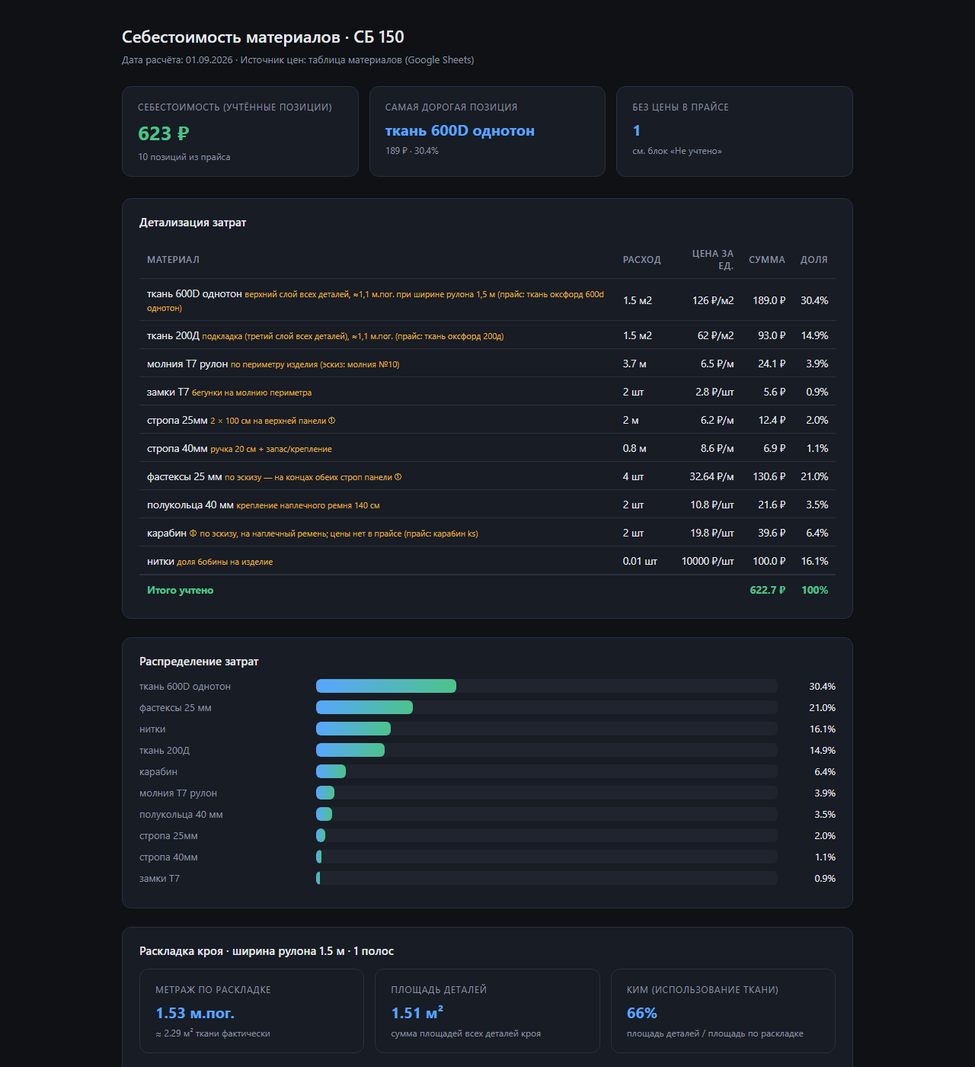
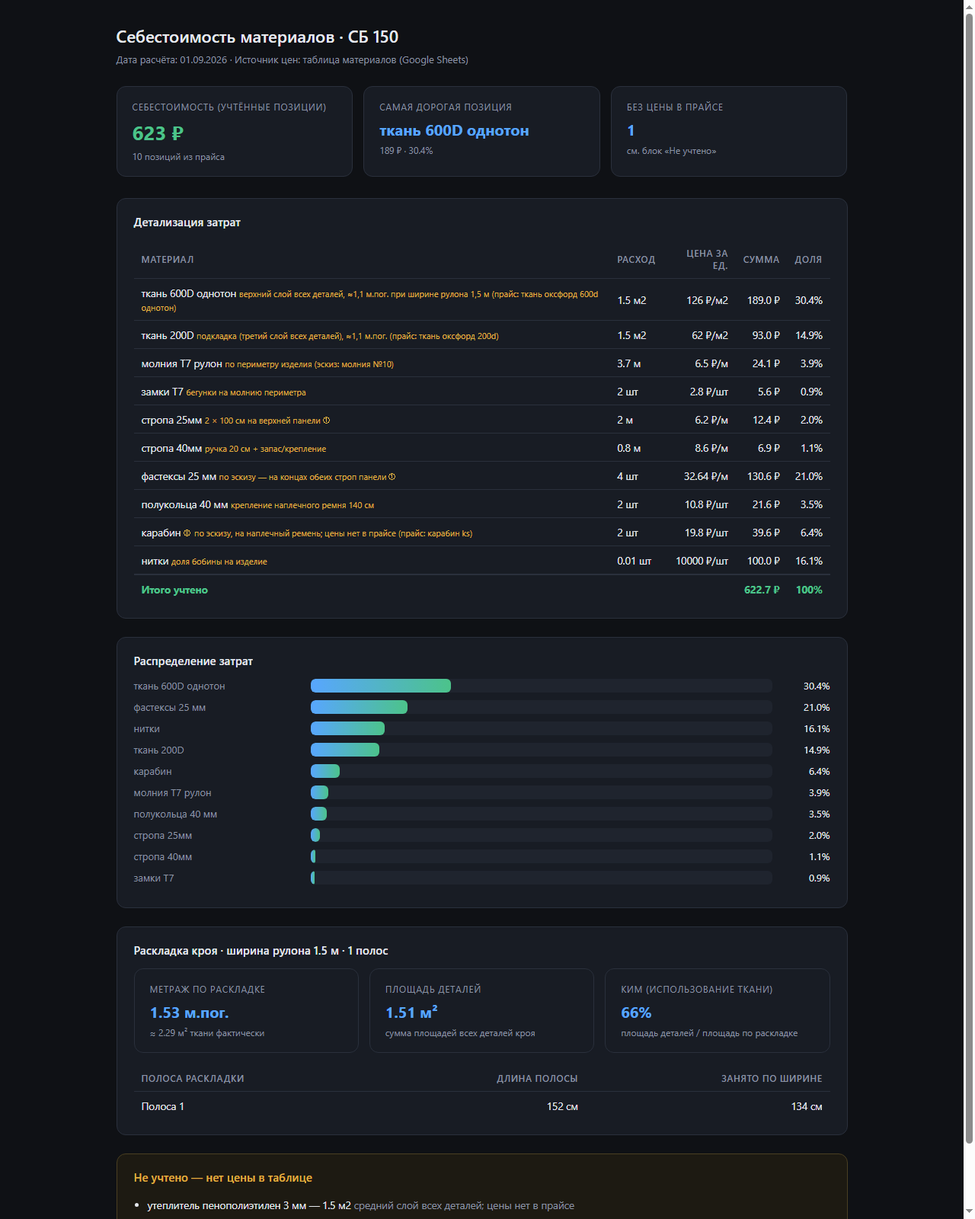
ГЛ 150: исправлен размер основной панели (152×50) и фурнитура (карабины, фастексы); 200Д→200D в словаре техкарт и скилла tcgen; пересчёт обеих себестоимостей; скриншоты техкарт и обновлённые дашборды в README

diff --git a/cost_reports/ГЛ 150-cost.html b/cost_reports/ГЛ 150-cost.html
@@ -35,33 +35,33 @@ footer{color:var(--muted);font-size:12px;text-align:center}
 <header><h1>Себестоимость материалов · ГЛ 150</h1>
 <div class="meta">Дата расчёта: 01.09.2026 · Источник цен: таблица материалов (Google Sheets)</div></header>
 <div class="cards">
-<div class="card"><div class="label">Себестоимость (учтённые позиции)</div><div class="value">326 ₽</div>
-<div class="sub">7 позиций из прайса</div></div>
+<div class="card"><div class="label">Себестоимость (учтённые позиции)</div><div class="value">517 ₽</div>
+<div class="sub">8 позиций из прайса</div></div>
 <div class="card"><div class="label">Самая дорогая позиция</div>
-<div class="value blue">нитки</div>
-<div class="sub">100 ₽ · 30.7%</div> </div>
+<div class="value blue">ткань 600D однотон</div>
+<div class="sub">137 ₽ · 26.6%</div> </div>
 <div class="card"><div class="label">Без цены в прайсе</div><div class="value blue">1</div>
 <div class="sub">см. блок «Не учтено»</div></div>
 </div>
 <section><h2>Детализация затрат</h2><table>
 <thead><tr><th>Материал</th><th>Расход</th><th class="num">Цена за ед.</th><th class="num">Сумма</th><th class="num">Доля</th></tr></thead>
-<tbody><tr><td>ткань 600D однотон <span class="note">верхний слой всех деталей, ≈0,45 м.пог. при ширине рулона 1,5 м (прайс: ткань оксфорд 600d однотон)</span></td><td>0.63 м2</td><td class='num'>126 ₽/м2</td><td class='num'>79.4 ₽</td><td class='num'>24.4%</td></tr><tr><td>ткань 200Д <span class="note">подкладка (третий слой всех деталей), ≈0,45 м.пог. (прайс: ткань оксфорд 200д)</span></td><td>0.63 м2</td><td class='num'>62 ₽/м2</td><td class='num'>39.1 ₽</td><td class='num'>12.0%</td></tr><tr><td>стропа 25мм <span class="note">2 × 40 см на панели + ремень 140 см на карабинах</span></td><td>2.2 м</td><td class='num'>6.2 ₽/м</td><td class='num'>13.6 ₽</td><td class='num'>4.2%</td></tr><tr><td>стропа 40мм <span class="note">ручка 20 см + запас/крепление</span></td><td>0.8 м</td><td class='num'>8.6 ₽/м</td><td class='num'>6.9 ₽</td><td class='num'>2.1%</td></tr><tr><td>фастексы 25 мм <span class="note">на концах строп панели</span></td><td>2 шт</td><td class='num'>32.64 ₽/м</td><td class='num'>65.3 ₽</td><td class='num'>20.0%</td></tr><tr><td>полукольца 40 мм <span class="note">крепление съёмного ремня</span></td><td>2 шт</td><td class='num'>10.8 ₽/шт</td><td class='num'>21.6 ₽</td><td class='num'>6.6%</td></tr><tr><td>нитки <span class="note">доля бобины на изделие</span></td><td>0.01 шт</td><td class='num'>10000 ₽/шт</td><td class='num'>100.0 ₽</td><td class='num'>30.7%</td></tr>
-<tr class="total"><td>Итого учтено</td><td></td><td></td><td class="num">325.8 ₽</td><td class="num">100%</td></tr>
+<tbody><tr><td>ткань 600D однотон <span class="note">верхний слой всех деталей, ≈0,8 м.пог. при ширине рулона 1,5 м (прайс: ткань оксфорд 600d однотон)</span></td><td>1.09 м2</td><td class='num'>126 ₽/м2</td><td class='num'>137.3 ₽</td><td class='num'>26.6%</td></tr><tr><td>ткань 200D <span class="note">подкладка (третий слой всех деталей), ≈0,8 м.пог. (прайс: ткань оксфорд 200d)</span></td><td>1.09 м2</td><td class='num'>62 ₽/м2</td><td class='num'>67.6 ₽</td><td class='num'>13.1%</td></tr><tr><td>стропа 25мм <span class="note">2 × 40 см на панели + ремень 140 см на карабинах</span></td><td>2.2 м</td><td class='num'>6.2 ₽/м</td><td class='num'>13.6 ₽</td><td class='num'>2.6%</td></tr><tr><td>стропа 40мм <span class="note">ручка 20 см + запас/крепление</span></td><td>0.8 м</td><td class='num'>8.6 ₽/м</td><td class='num'>6.9 ₽</td><td class='num'>1.3%</td></tr><tr><td>фастексы 25 мм <span class="note">по 2 на каждой стропе панели (с регулировкой)</span></td><td>4 шт</td><td class='num'>32.64 ₽/м</td><td class='num'>130.6 ₽</td><td class='num'>25.2%</td></tr><tr><td>полукольца 40 мм <span class="note">крепление съёмного ремня</span></td><td>2 шт</td><td class='num'>10.8 ₽/шт</td><td class='num'>21.6 ₽</td><td class='num'>4.2%</td></tr><tr><td>карабин <span class="note">на съёмный ремень; цены нет в прайсе (прайс: карабин ks)</span></td><td>2 шт</td><td class='num'>19.8 ₽/шт</td><td class='num'>39.6 ₽</td><td class='num'>7.7%</td></tr><tr><td>нитки <span class="note">доля бобины на изделие</span></td><td>0.01 шт</td><td class='num'>10000 ₽/шт</td><td class='num'>100.0 ₽</td><td class='num'>19.3%</td></tr>
+<tr class="total"><td>Итого учтено</td><td></td><td></td><td class="num">517.2 ₽</td><td class="num">100%</td></tr>
 </tbody></table></section>
-<section><h2>Распределение затрат</h2><div class='bar-row'><div class='name'>нитки</div><div class='track'><div class='fill' style='width:30.7%'></div></div><div class='pct'>30.7%</div></div><div class='bar-row'><div class='name'>ткань 600D однотон</div><div class='track'><div class='fill' style='width:24.4%'></div></div><div class='pct'>24.4%</div></div><div class='bar-row'><div class='name'>фастексы 25 мм</div><div class='track'><div class='fill' style='width:20.0%'></div></div><div class='pct'>20.0%</div></div><div class='bar-row'><div class='name'>ткань 200Д</div><div class='track'><div class='fill' style='width:12.0%'></div></div><div class='pct'>12.0%</div></div><div class='bar-row'><div class='name'>полукольца 40 мм</div><div class='track'><div class='fill' style='width:6.6%'></div></div><div class='pct'>6.6%</div></div><div class='bar-row'><div class='name'>стропа 25мм</div><div class='track'><div class='fill' style='width:4.2%'></div></div><div class='pct'>4.2%</div></div><div class='bar-row'><div class='name'>стропа 40мм</div><div class='track'><div class='fill' style='width:2.1%'></div></div><div class='pct'>2.1%</div></div></section>
+<section><h2>Распределение затрат</h2><div class='bar-row'><div class='name'>ткань 600D однотон</div><div class='track'><div class='fill' style='width:26.6%'></div></div><div class='pct'>26.6%</div></div><div class='bar-row'><div class='name'>фастексы 25 мм</div><div class='track'><div class='fill' style='width:25.2%'></div></div><div class='pct'>25.2%</div></div><div class='bar-row'><div class='name'>нитки</div><div class='track'><div class='fill' style='width:19.3%'></div></div><div class='pct'>19.3%</div></div><div class='bar-row'><div class='name'>ткань 200D</div><div class='track'><div class='fill' style='width:13.1%'></div></div><div class='pct'>13.1%</div></div><div class='bar-row'><div class='name'>карабин</div><div class='track'><div class='fill' style='width:7.7%'></div></div><div class='pct'>7.7%</div></div><div class='bar-row'><div class='name'>полукольца 40 мм</div><div class='track'><div class='fill' style='width:4.2%'></div></div><div class='pct'>4.2%</div></div><div class='bar-row'><div class='name'>стропа 25мм</div><div class='track'><div class='fill' style='width:2.6%'></div></div><div class='pct'>2.6%</div></div><div class='bar-row'><div class='name'>стропа 40мм</div><div class='track'><div class='fill' style='width:1.3%'></div></div><div class='pct'>1.3%</div></div></section>
 
 <section><h2>Раскладка кроя · ширина рулона 1.5 м · 1 полос</h2>
 <div class="cards" style="margin-bottom:16px">
 <div class="card"><div class="label">Метраж по раскладке</div><div class="value blue">1.53 м.пог.</div>
 <div class="sub">≈ 2.29 м² ткани фактически</div></div>
-<div class="card"><div class="label">Площадь деталей</div><div class="value blue">0.63 м²</div>
+<div class="card"><div class="label">Площадь деталей</div><div class="value blue">1.09 м²</div>
 <div class="sub">сумма площадей всех деталей кроя</div></div>
-<div class="card"><div class="label">КИМ (использование ткани)</div><div class="value blue">28%</div>
+<div class="card"><div class="label">КИМ (использование ткани)</div><div class="value blue">48%</div>
 <div class="sub">площадь деталей / площадь по раскладке</div></div>
 </div>
 <table><thead><tr><th>Полоса раскладки</th><th class="num">Длина полосы</th>
 <th class="num">Занято по ширине</th></tr></thead>
 <tbody><tr><td>Полоса 1</td><td class='num'>152 см</td><td class='num'>103 см</td></tr></tbody></table></section>
-<section class='warn'><h2>Не учтено — нет цены в таблице</h2><ul><li>утеплитель пенополиэтилен 3 мм — 0.63 м2 <span class='est'>средний слой всех деталей; цены нет в прайсе</span></li></ul></section>
+<section class='warn'><h2>Не учтено — нет цены в таблице</h2><ul><li>утеплитель пенополиэтилен 3 мм — 1.09 м2 <span class='est'>средний слой всех деталей; цены нет в прайсе</span></li></ul></section>
 <footer>sewflow · tkcost</footer>
 </div></body></html>

diff --git a/cost_reports/СБ 150-cost.html b/cost_reports/СБ 150-cost.html
@@ -45,10 +45,10 @@ footer{color:var(--muted);font-size:12px;text-align:center}
 </div>
 <section><h2>Детализация затрат</h2><table>
 <thead><tr><th>Материал</th><th>Расход</th><th class="num">Цена за ед.</th><th class="num">Сумма</th><th class="num">Доля</th></tr></thead>
-<tbody><tr><td>ткань 600D однотон <span class="note">верхний слой всех деталей, ≈1,1 м.пог. при ширине рулона 1,5 м (прайс: ткань оксфорд 600d однотон)</span></td><td>1.5 м2</td><td class='num'>126 ₽/м2</td><td class='num'>189.0 ₽</td><td class='num'>30.4%</td></tr><tr><td>ткань 200Д <span class="note">подкладка (третий слой всех деталей), ≈1,1 м.пог. (прайс: ткань оксфорд 200д)</span></td><td>1.5 м2</td><td class='num'>62 ₽/м2</td><td class='num'>93.0 ₽</td><td class='num'>14.9%</td></tr><tr><td>молния T7 рулон <span class="note">по периметру изделия (эскиз: молния №10)</span></td><td>3.7 м</td><td class='num'>6.5 ₽/м</td><td class='num'>24.1 ₽</td><td class='num'>3.9%</td></tr><tr><td>замки T7 <span class="note">бегунки на молнию периметра</span></td><td>2 шт</td><td class='num'>2.8 ₽/шт</td><td class='num'>5.6 ₽</td><td class='num'>0.9%</td></tr><tr><td>стропа 25мм <span class="note">2 × 100 см на верхней панели ①</span></td><td>2 м</td><td class='num'>6.2 ₽/м</td><td class='num'>12.4 ₽</td><td class='num'>2.0%</td></tr><tr><td>стропа 40мм <span class="note">ручка 20 см + запас/крепление</span></td><td>0.8 м</td><td class='num'>8.6 ₽/м</td><td class='num'>6.9 ₽</td><td class='num'>1.1%</td></tr><tr><td>фастексы 25 мм <span class="note">по эскизу — на концах обеих строп панели ①</span></td><td>4 шт</td><td class='num'>32.64 ₽/м</td><td class='num'>130.6 ₽</td><td class='num'>21.0%</td></tr><tr><td>полукольца 40 мм <span class="note">крепление наплечного ремня 140 см</span></td><td>2 шт</td><td class='num'>10.8 ₽/шт</td><td class='num'>21.6 ₽</td><td class='num'>3.5%</td></tr><tr><td>карабин <span class="note">⑧ по эскизу, на наплечный ремень; цены нет в прайсе (прайс: карабин ks)</span></td><td>2 шт</td><td class='num'>19.8 ₽/шт</td><td class='num'>39.6 ₽</td><td class='num'>6.4%</td></tr><tr><td>нитки <span class="note">доля бобины на изделие</span></td><td>0.01 шт</td><td class='num'>10000 ₽/шт</td><td class='num'>100.0 ₽</td><td class='num'>16.1%</td></tr>
+<tbody><tr><td>ткань 600D однотон <span class="note">верхний слой всех деталей, ≈1,1 м.пог. при ширине рулона 1,5 м (прайс: ткань оксфорд 600d однотон)</span></td><td>1.5 м2</td><td class='num'>126 ₽/м2</td><td class='num'>189.0 ₽</td><td class='num'>30.4%</td></tr><tr><td>ткань 200D <span class="note">подкладка (третий слой всех деталей), ≈1,1 м.пог. (прайс: ткань оксфорд 200d)</span></td><td>1.5 м2</td><td class='num'>62 ₽/м2</td><td class='num'>93.0 ₽</td><td class='num'>14.9%</td></tr><tr><td>молния T7 рулон <span class="note">по периметру изделия (эскиз: молния №10)</span></td><td>3.7 м</td><td class='num'>6.5 ₽/м</td><td class='num'>24.1 ₽</td><td class='num'>3.9%</td></tr><tr><td>замки T7 <span class="note">бегунки на молнию периметра</span></td><td>2 шт</td><td class='num'>2.8 ₽/шт</td><td class='num'>5.6 ₽</td><td class='num'>0.9%</td></tr><tr><td>стропа 25мм <span class="note">2 × 100 см на верхней панели ①</span></td><td>2 м</td><td class='num'>6.2 ₽/м</td><td class='num'>12.4 ₽</td><td class='num'>2.0%</td></tr><tr><td>стропа 40мм <span class="note">ручка 20 см + запас/крепление</span></td><td>0.8 м</td><td class='num'>8.6 ₽/м</td><td class='num'>6.9 ₽</td><td class='num'>1.1%</td></tr><tr><td>фастексы 25 мм <span class="note">по эскизу — на концах обеих строп панели ①</span></td><td>4 шт</td><td class='num'>32.64 ₽/м</td><td class='num'>130.6 ₽</td><td class='num'>21.0%</td></tr><tr><td>полукольца 40 мм <span class="note">крепление наплечного ремня 140 см</span></td><td>2 шт</td><td class='num'>10.8 ₽/шт</td><td class='num'>21.6 ₽</td><td class='num'>3.5%</td></tr><tr><td>карабин <span class="note">⑧ по эскизу, на наплечный ремень; цены нет в прайсе (прайс: карабин ks)</span></td><td>2 шт</td><td class='num'>19.8 ₽/шт</td><td class='num'>39.6 ₽</td><td class='num'>6.4%</td></tr><tr><td>нитки <span class="note">доля бобины на изделие</span></td><td>0.01 шт</td><td class='num'>10000 ₽/шт</td><td class='num'>100.0 ₽</td><td class='num'>16.1%</td></tr>
 <tr class="total"><td>Итого учтено</td><td></td><td></td><td class="num">622.7 ₽</td><td class="num">100%</td></tr>
 </tbody></table></section>
-<section><h2>Распределение затрат</h2><div class='bar-row'><div class='name'>ткань 600D однотон</div><div class='track'><div class='fill' style='width:30.4%'></div></div><div class='pct'>30.4%</div></div><div class='bar-row'><div class='name'>фастексы 25 мм</div><div class='track'><div class='fill' style='width:21.0%'></div></div><div class='pct'>21.0%</div></div><div class='bar-row'><div class='name'>нитки</div><div class='track'><div class='fill' style='width:16.1%'></div></div><div class='pct'>16.1%</div></div><div class='bar-row'><div class='name'>ткань 200Д</div><div class='track'><div class='fill' style='width:14.9%'></div></div><div class='pct'>14.9%</div></div><div class='bar-row'><div class='name'>карабин</div><div class='track'><div class='fill' style='width:6.4%'></div></div><div class='pct'>6.4%</div></div><div class='bar-row'><div class='name'>молния T7 рулон</div><div class='track'><div class='fill' style='width:3.9%'></div></div><div class='pct'>3.9%</div></div><div class='bar-row'><div class='name'>полукольца 40 мм</div><div class='track'><div class='fill' style='width:3.5%'></div></div><div class='pct'>3.5%</div></div><div class='bar-row'><div class='name'>стропа 25мм</div><div class='track'><div class='fill' style='width:2.0%'></div></div><div class='pct'>2.0%</div></div><div class='bar-row'><div class='name'>стропа 40мм</div><div class='track'><div class='fill' style='width:1.1%'></div></div><div class='pct'>1.1%</div></div><div class='bar-row'><div class='name'>замки T7</div><div class='track'><div class='fill' style='width:0.9%'></div></div><div class='pct'>0.9%</div></div></section>
+<section><h2>Распределение затрат</h2><div class='bar-row'><div class='name'>ткань 600D однотон</div><div class='track'><div class='fill' style='width:30.4%'></div></div><div class='pct'>30.4%</div></div><div class='bar-row'><div class='name'>фастексы 25 мм</div><div class='track'><div class='fill' style='width:21.0%'></div></div><div class='pct'>21.0%</div></div><div class='bar-row'><div class='name'>нитки</div><div class='track'><div class='fill' style='width:16.1%'></div></div><div class='pct'>16.1%</div></div><div class='bar-row'><div class='name'>ткань 200D</div><div class='track'><div class='fill' style='width:14.9%'></div></div><div class='pct'>14.9%</div></div><div class='bar-row'><div class='name'>карабин</div><div class='track'><div class='fill' style='width:6.4%'></div></div><div class='pct'>6.4%</div></div><div class='bar-row'><div class='name'>молния T7 рулон</div><div class='track'><div class='fill' style='width:3.9%'></div></div><div class='pct'>3.9%</div></div><div class='bar-row'><div class='name'>полукольца 40 мм</div><div class='track'><div class='fill' style='width:3.5%'></div></div><div class='pct'>3.5%</div></div><div class='bar-row'><div class='name'>стропа 25мм</div><div class='track'><div class='fill' style='width:2.0%'></div></div><div class='pct'>2.0%</div></div><div class='bar-row'><div class='name'>стропа 40мм</div><div class='track'><div class='fill' style='width:1.1%'></div></div><div class='pct'>1.1%</div></div><div class='bar-row'><div class='name'>замки T7</div><div class='track'><div class='fill' style='width:0.9%'></div></div><div class='pct'>0.9%</div></div></section>
 
 <section><h2>Раскладка кроя · ширина рулона 1.5 м · 1 полос</h2>
 <div class="cards" style="margin-bottom:16px">

diff --git a/tech_maps/ГЛ 150.md b/tech_maps/ГЛ 150.md
@@ -2,7 +2,7 @@
 
 ## Спецификация
 
-Чехол-конверт, все детали в три слоя: оксфорд 600D + пена 3 мм + оксфорд 200Д. Внешний размер: 152 × 18 × 16 см. Деталь ① (полоса) — цветная, остальные — чёрные. Ручка 20 см на основной панели, две стропы 25 мм с фастексами, съёмный ремень на карабинах (полукольца). Размеры деталей — с припусками на швы 1 см на сторону.
+Чехол-конверт, все детали в три слоя: оксфорд 600D + пена 3 мм + оксфорд 200D. Внешний размер: 152 × 18 × 16 см. Деталь ① (полоса) — цветная, остальные — чёрные. Ручка 20 см на основной панели, две стропы 25 мм с фастексами, съёмный ремень на карабинах (полукольца). Размеры деталей — с припусками на швы 1 см на сторону.
 
 ## Детали кроя
 
@@ -11,7 +11,7 @@
 | Деталь | Размер, см | Кол-во |
 |---|---|---|
 | ① Полоса (цветная) | 152 × 18 | 1 |
-| ② Основная панель | 60 × 50 | 1 |
+| ② Основная панель | 152 × 50 | 1 |
 | ③ Торцевая деталь | 18 × 16 | 1 |
 | ④ Торцевая деталь | 18 × 16 | 1 |
 
@@ -19,11 +19,12 @@
 
 | Материал | Расход на изделие | Ед. изм. | Комментарий |
 |---|---|---|---|
-| ткань 600D однотон | 0.63 | м2 | верхний слой всех деталей, ≈0,45 м.пог. при ширине рулона 1,5 м |
-| ткань 200Д | 0.63 | м2 | подкладка (третий слой всех деталей), ≈0,45 м.пог. |
-| утеплитель пенополиэтилен 3 мм | 0.63 | м2 | средний слой всех деталей; цены нет в прайсе |
+| ткань 600D однотон | 1.09 | м2 | верхний слой всех деталей, ≈0,8 м.пог. при ширине рулона 1,5 м |
+| ткань 200D | 1.09 | м2 | подкладка (третий слой всех деталей), ≈0,8 м.пог. |
+| утеплитель пенополиэтилен 3 мм | 1.09 | м2 | средний слой всех деталей; цены нет в прайсе |
 | стропа 25мм | 2.2 | м | 2 × 40 см на панели + ремень 140 см на карабинах |
 | стропа 40мм | 0.8 | м | ручка 20 см + запас/крепление |
-| фастексы 25 мм | 2 | шт | на концах строп панели |
+| фастексы 25 мм | 4 | шт | по 2 на каждой стропе панели (с регулировкой) |
 | полукольца 40 мм | 2 | шт | крепление съёмного ремня |
+| карабин | 2 | шт | на съёмный ремень; цены нет в прайсе |
 | нитки | 0.01 | шт | доля бобины на изделие |

diff --git a/tech_maps/СБ 150.md b/tech_maps/СБ 150.md
@@ -2,7 +2,7 @@
 
 ## Спецификация
 
-Чехол-конверт, все детали в три слоя: оксфорд 600D + пена 3 мм + оксфорд 200Д. Внешний размер: 152 × 32 см. Деталь ② (основная панель) — цвет или принт, остальные детали — серые. На панели ① — ручка 20 см и две стропы 25 мм с фастексами; наплечный ремень 140 см на полукольцах с карабином. На панели ② — накладной карман на липучке. Молния №10 по периметру. Размеры деталей — с припусками на швы 1 см на сторону.
+Чехол-конверт, все детали в три слоя: оксфорд 600D + пена 3 мм + оксфорд 200D. Внешний размер: 152 × 32 см. Деталь ② (основная панель) — цвет или принт, остальные детали — серые. На панели ① — ручка 20 см и две стропы 25 мм с фастексами; наплечный ремень 140 см на полукольцах с карабином. На панели ② — накладной карман на липучке. Молния №10 по периметру. Размеры деталей — с припусками на швы 1 см на сторону.
 
 ## Детали кроя
 
@@ -23,7 +23,7 @@
 | Материал | Расход на изделие | Ед. изм. | Комментарий |
 |---|---|---|---|
 | ткань 600D однотон | 1.5 | м2 | верхний слой всех деталей, ≈1,1 м.пог. при ширине рулона 1,5 м |
-| ткань 200Д | 1.5 | м2 | подкладка (третий слой всех деталей), ≈1,1 м.пог. |
+| ткань 200D | 1.5 | м2 | подкладка (третий слой всех деталей), ≈1,1 м.пог. |
 | утеплитель пенополиэтилен 3 мм | 1.5 | м2 | средний слой всех деталей; цены нет в прайсе |
 | молния T7 рулон | 3.7 | м | по периметру изделия (эскиз: молния №10) |
 | замки T7 | 2 | шт | бегунки на молнию периметра |
